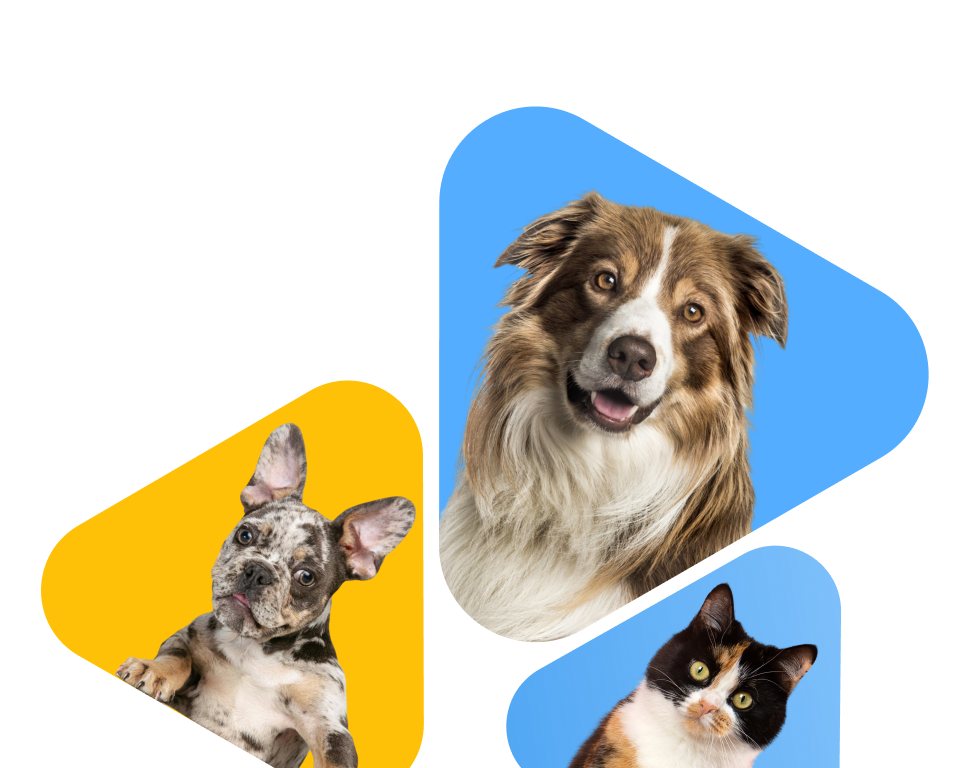
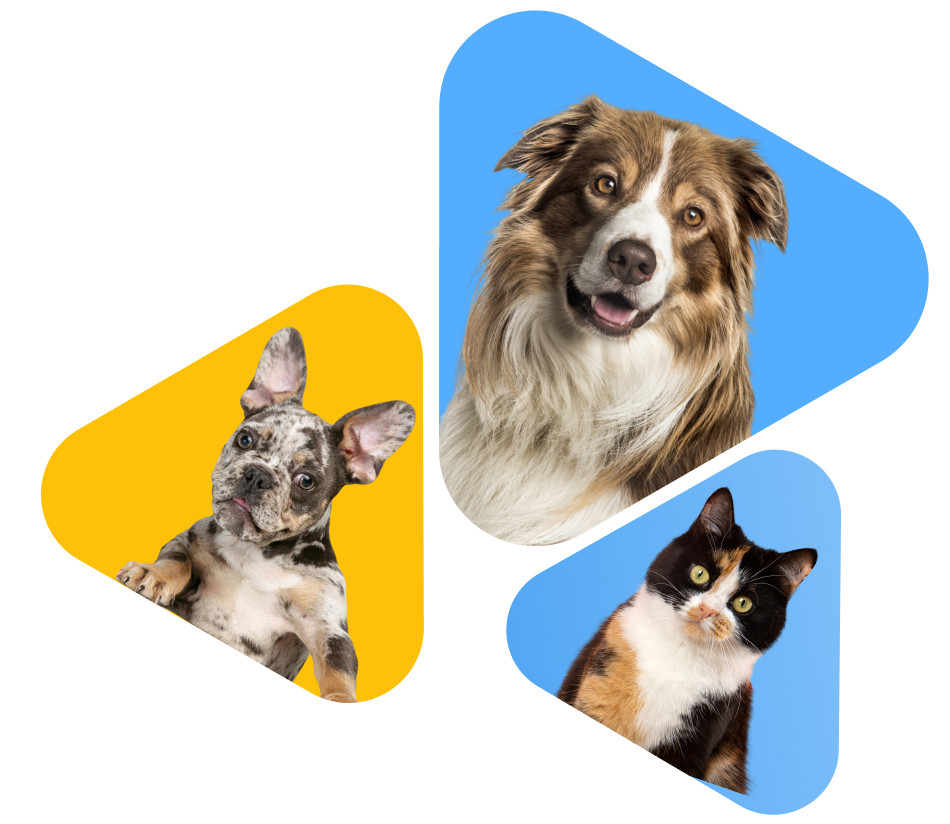
Fix main page

diff --git a/src/components/MainPage/MainPage.styled.jsx b/src/components/MainPage/MainPage.styled.jsx
@@ -1,48 +1,108 @@
 import styled from 'styled-components';
 
 export const MainContainer = styled.div`
-  height: calc(100vh - 86px);
+  padding-top: 30px;
+  height: 100vh;
+  max-width: 1280px;
+  margin: 0 auto;
 
   @media screen and (min-width: 768px) {
-    height: calc(100vh - 102px);
+    padding-top: 50px;
+  }
+
+  @media screen and (min-width: 1280px) {
+    padding-top: 0;
+    position: relative;
   }
 `;
 
 export const MainTitle = styled.h1`
   width: 280px;
   line-height: 1.37;
-  padding-top: 30px;
-  padding-left: 4px;
+  padding-left: 20px;
 
   @media screen and (min-width: 768px) {
     width: 588px;
+    padding-left: 32px;
     font-size: 68px;
     line-height: 1.47;
-    padding-top: 50px;
-    padding-left: 16px;
   }
 
   @media screen and (min-width: 1280px) {
+    padding-left: 16px;
     width: 501px;
     line-height: 1.3;
-    padding-top: 154px;
-    padding-left: 0;
+    position: absolute;
+    top: 188px;
+  }
+`;
+
+export const MainPicture = styled.picture`
+  display: block;
+  padding-top: 20px;
+
+  @media screen and (min-width: 768px) {
+    padding-top: 30px;
+  }
+
+  @media screen and (min-width: 1280px) {
+    padding-top: 0;
   }
 `;
 
 export const MainImg = styled.img`
-  position: absolute;
-  bottom: 0;
-  right: 0;
   width: 100%;
-  height: 390px;
-
-  @media screen and (min-width: 768px) {
-    height: 820px;
-  }
 
   @media screen and (min-width: 1280px) {
     width: 917px;
-    height: 720px;
+    height: 800px;
+    margin-left: auto;
   }
 `;
+
+// export const MainContainer = styled.div`
+//   height: calc(100vh - 86px);
+
+//   @media screen and (min-width: 768px) {
+//     height: calc(100vh - 102px);
+//   }
+// `;
+
+// export const MainTitle = styled.h1`
+//   width: 280px;
+//   line-height: 1.37;
+//   padding-top: 30px;
+//   padding-left: 4px;
+
+//   @media screen and (min-width: 768px) {
+//     width: 588px;
+//     font-size: 68px;
+//     line-height: 1.47;
+//     padding-top: 50px;
+//     padding-left: 16px;
+//   }
+
+//   @media screen and (min-width: 1280px) {
+//     width: 501px;
+//     line-height: 1.3;
+//     padding-top: 154px;
+//     padding-left: 0;
+//   }
+// `;
+
+// export const MainImg = styled.img`
+//   position: absolute;
+//   bottom: 0;
+//   right: 0;
+//   width: 100%;
+//   height: 390px;
+
+//   @media screen and (min-width: 768px) {
+//     height: 820px;
+//   }
+
+//   @media screen and (min-width: 1280px) {
+//     width: 917px;
+//     height: 720px;
+//   }
+// `;

diff --git a/src/components/App.jsx b/src/components/App.jsx
@@ -43,41 +43,41 @@ export const App = () => {
 
   return (
     <>
-      <div className="container">
-        <Suspense>
-          <Routes>
-            <Route
-              path="/"
-              element={
-                <SharedLayout
-                  desktop={desktop}
-                  tablet={tablet}
-                  mobile={mobile}
-                  isConnect={isConnect}
-                />
-              }
-            >
-              {/* <Route index element={<MainPage />}/> */}
+      {/* <div className="container"> */}
+      <Suspense>
+        <Routes>
+          <Route
+            path="/"
+            element={
+              <SharedLayout
+                desktop={desktop}
+                tablet={tablet}
+                mobile={mobile}
+                isConnect={isConnect}
+              />
+            }
+          >
+            {/* <Route index element={<MainPage />}/> */}
 
-              <Route index element={<Main />} />
-              <Route path="/user" element={<User />} />
-              <Route path="/login" element={<Login />} />
-              <Route path="/register" element={<Register />} />
-              <Route path="/notices" element={<Notices />} />
-              <Route path="/add-pet" element={<AddPet />} />
-              <Route path="/news" element={<News />} />
-              <Route path="/friends" element={<OurFriends />} />
+            <Route index element={<Main />} />
+            <Route path="/user" element={<User />} />
+            <Route path="/login" element={<Login />} />
+            <Route path="/register" element={<Register />} />
+            <Route path="/notices" element={<Notices />} />
+            <Route path="/add-pet" element={<AddPet />} />
+            <Route path="/news" element={<News />} />
+            <Route path="/friends" element={<OurFriends />} />
 
-              {/* <Route path="/user" element={
+            {/* <Route path="/user" element={
               <PrivateRoute redirectTo="/login" component={<UserPage/>}/>
             }/>
             <Route path="/login" element={
               <RestrictedRoute redirectTo="/user" component={<LoginPage/>}/>
             }/> */}
-            </Route>
-          </Routes>
-        </Suspense>
-      </div>
+          </Route>
+        </Routes>
+      </Suspense>
+      {/* </div> */}
     </>
   );
 };

diff --git a/src/components/MainPage/MainPage.js b/src/components/MainPage/MainPage.js
@@ -1,7 +1,12 @@
 // Компонент рендериться на маршрут /main
 // Головна сторінка містить в собі заголовок застосунку та контентне зображення домашніх улюбленців
 import React from 'react';
-import { MainContainer, MainTitle, MainImg } from './MainPage.styled';
+import {
+  MainContainer,
+  MainTitle,
+  MainImg,
+  MainPicture,
+} from './MainPage.styled';
 
 import mobileMainImg1x from '../../images/main/main@1x_sm.png';
 import mobileMainImg2x from '../../images/main/main@2x_sm.png';
@@ -15,7 +20,7 @@ export const MainPage = () => {
     <>
       <MainContainer>
         <MainTitle>Take good care of your small pets</MainTitle>
-        <picture>
+        <MainPicture>
           <source
             media="(min-width: 1280px)"
             srcset={`${desktopMainImg1x} 1x, ${desktopMainImg2x} 2x`}
@@ -32,7 +37,7 @@ export const MainPage = () => {
             type="image/png"
           />
           <MainImg src={mobileMainImg1x} alt="Cute pets" />
-        </picture>
+        </MainPicture>
       </MainContainer>
     </>
   );
